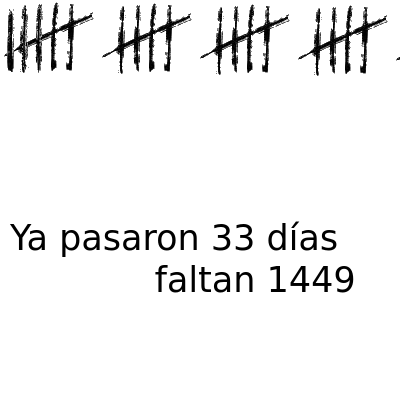
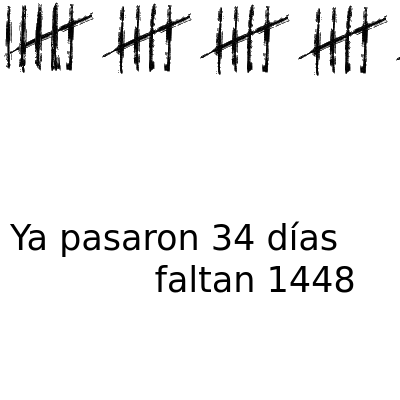
deploy: 28882f26f23b9f53dac6c4991168e610486d0e44

Changed region(s): [[0.0, 0.0, 0.15, 0.18], [0.57, 0.54, 0.63, 0.63], [0.84, 0.66, 0.9, 0.75]]

diff --git a/index.html b/index.html
@@ -3,19 +3,19 @@
   <head>
     <meta charset='utf-8'>
     <meta http-equiv='X-UA-Compatible' content='IE=edge'>
-    <title>Ya pasaron 33 días y faltan 1449</title>
-    <meta name="description" content="Ya pasaron 33 días y faltan 1449">
-    <meta itemprop="name" content="Ya pasaron 33 días y faltan 1449">
-    <meta itemprop="description" content="Ya pasaron 33 días y faltan 1449">
+    <title>Ya pasaron 34 días y faltan 1448</title>
+    <meta name="description" content="Ya pasaron 34 días y faltan 1448">
+    <meta itemprop="name" content="Ya pasaron 34 días y faltan 1448">
+    <meta itemprop="description" content="Ya pasaron 34 días y faltan 1448">
     <meta name="twitter:card" content="summary">
-    <meta name="twitter:title" content="Ya pasaron 33 días y faltan 1449">
-    <meta name="twitter:description" content="Ya pasaron 33 días y faltan 1449">
+    <meta name="twitter:title" content="Ya pasaron 34 días y faltan 1448">
+    <meta name="twitter:description" content="Ya pasaron 34 días y faltan 1448">
     <meta name="twitter:creator" content="@FloriusWasTaken">
     <meta name="twitter:image" content="https://pasaron.meme.ar/capture.png">
-    <meta property="og:title" content="Ya pasaron 33 días y faltan 1449">
-    <meta property="og:description" content="Ya pasaron 33 días y faltan 1449">
+    <meta property="og:title" content="Ya pasaron 34 días y faltan 1448">
+    <meta property="og:description" content="Ya pasaron 34 días y faltan 1448">
     <meta property="og:url" content="https://pasaron.meme.ar">
-    <meta property="og:site_name" content="Ya pasaron 33 días y faltan 1449">
+    <meta property="og:site_name" content="Ya pasaron 34 días y faltan 1448">
     <meta property="og:type" content="website">
     <meta property="og:image" content="https://pasaron.meme.ar/capture.png">
     <meta name="theme-color" content="#dc143c">
@@ -69,18 +69,18 @@
         padding: 0;
       }
     </style>
-    <title>Ya pasaron 33 días y faltan 1449</title>
+    <title>Ya pasaron 34 días y faltan 1448</title>
   </head>
   <body>
     <div id="main">
       <img src="img/5.png"/><img src="img/5.png"/><img src="img/5.png"/><img src="img/5.png"/><img src="img/5.png"/><img src="img/5.png"/>
       
-        <img src="img/3.png"/>
+        <img src="img/4.png"/>
       
     </div>
     <footer id="footer">
       <marquee id="marquee" class="is-vertical-align">
-        Ya pasaron 33 días y faltan 1449
+        Ya pasaron 34 días y faltan 1448
       </marquee>
       <ul>
         <li>
